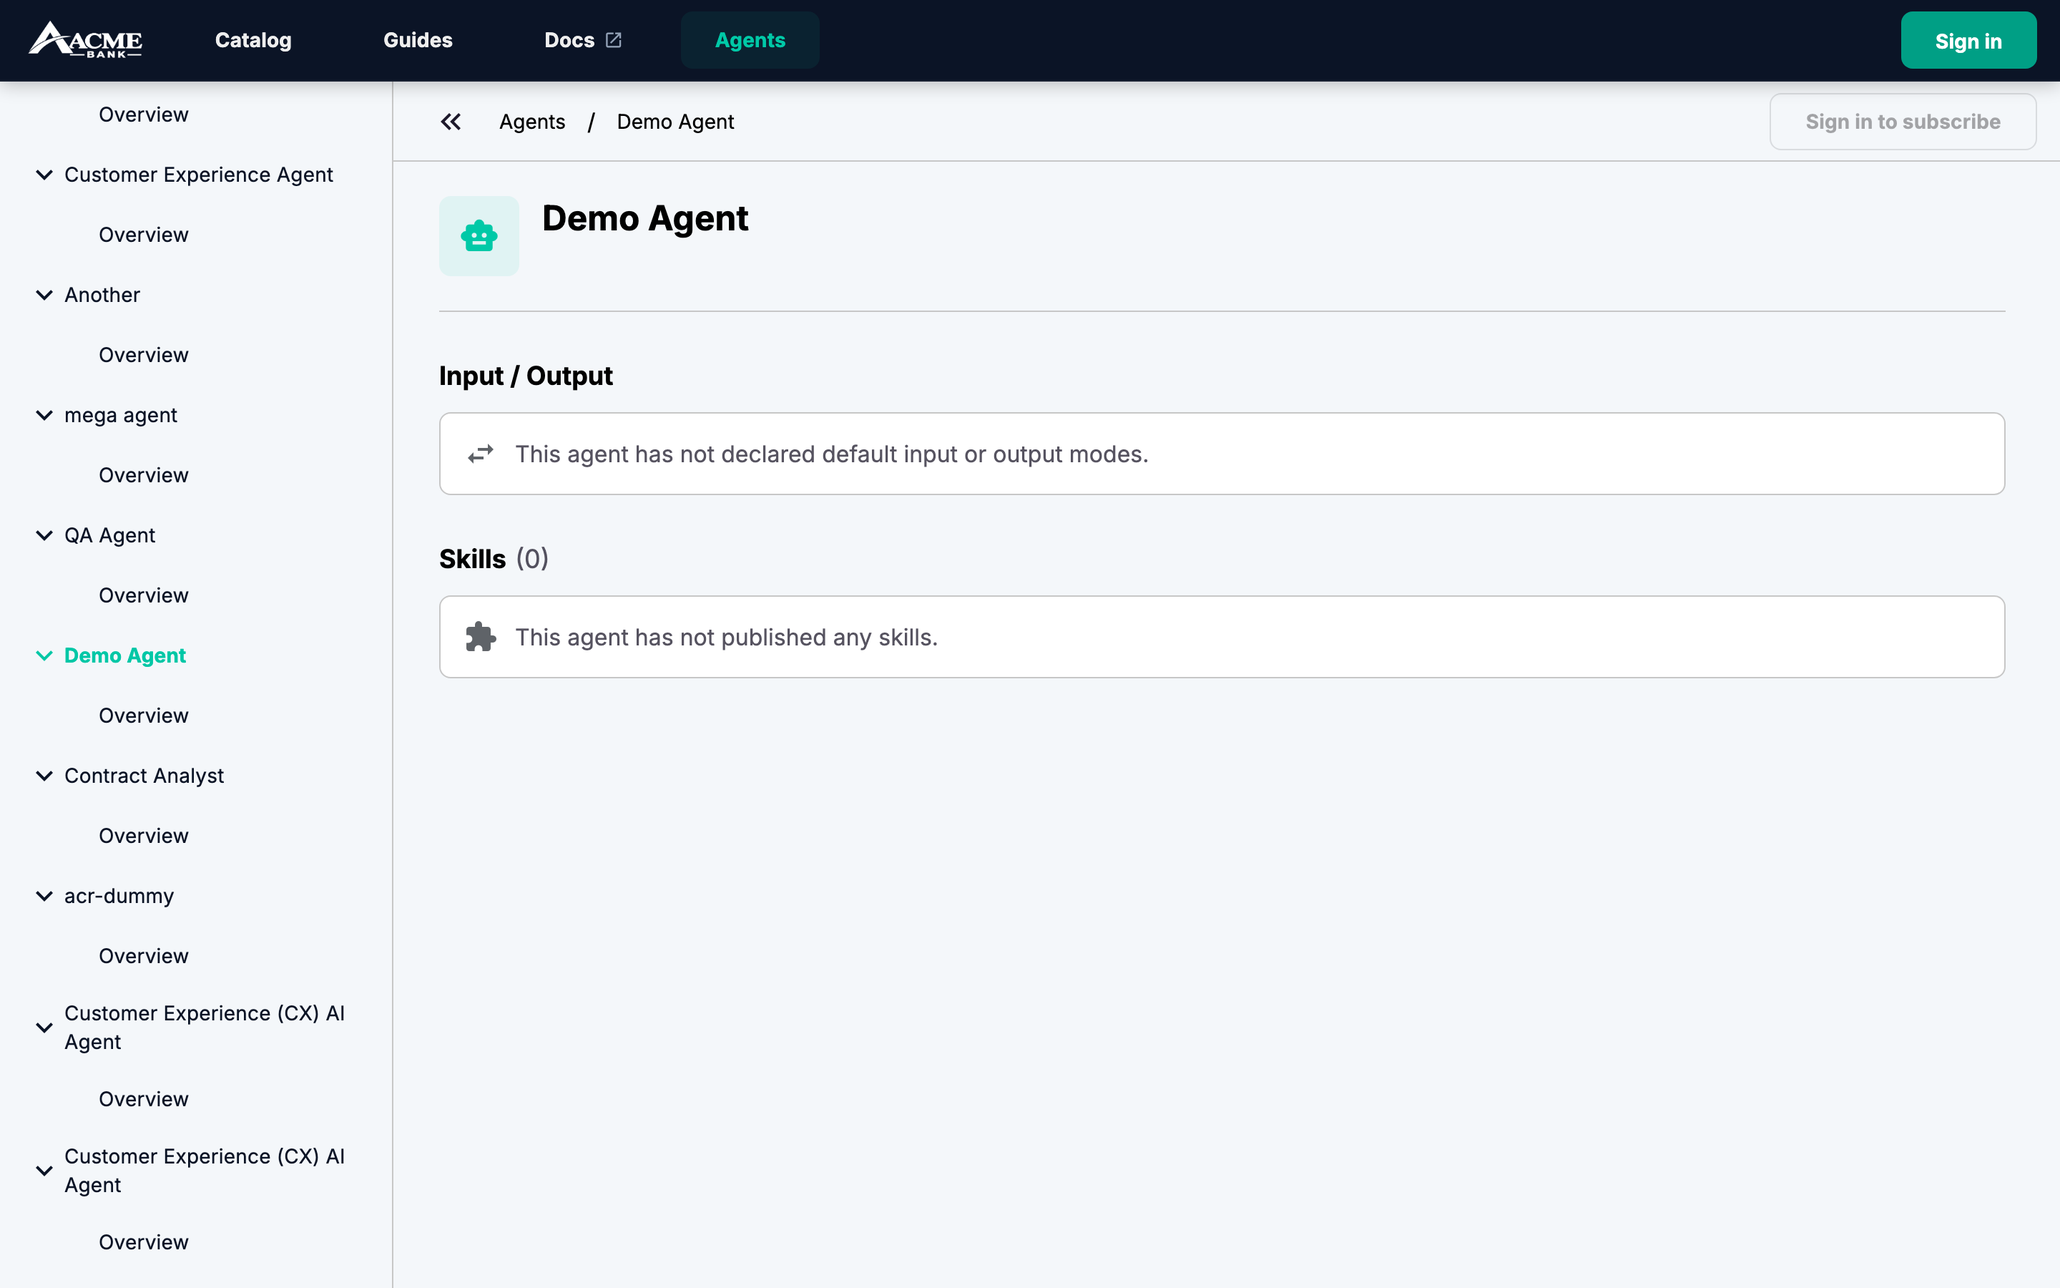
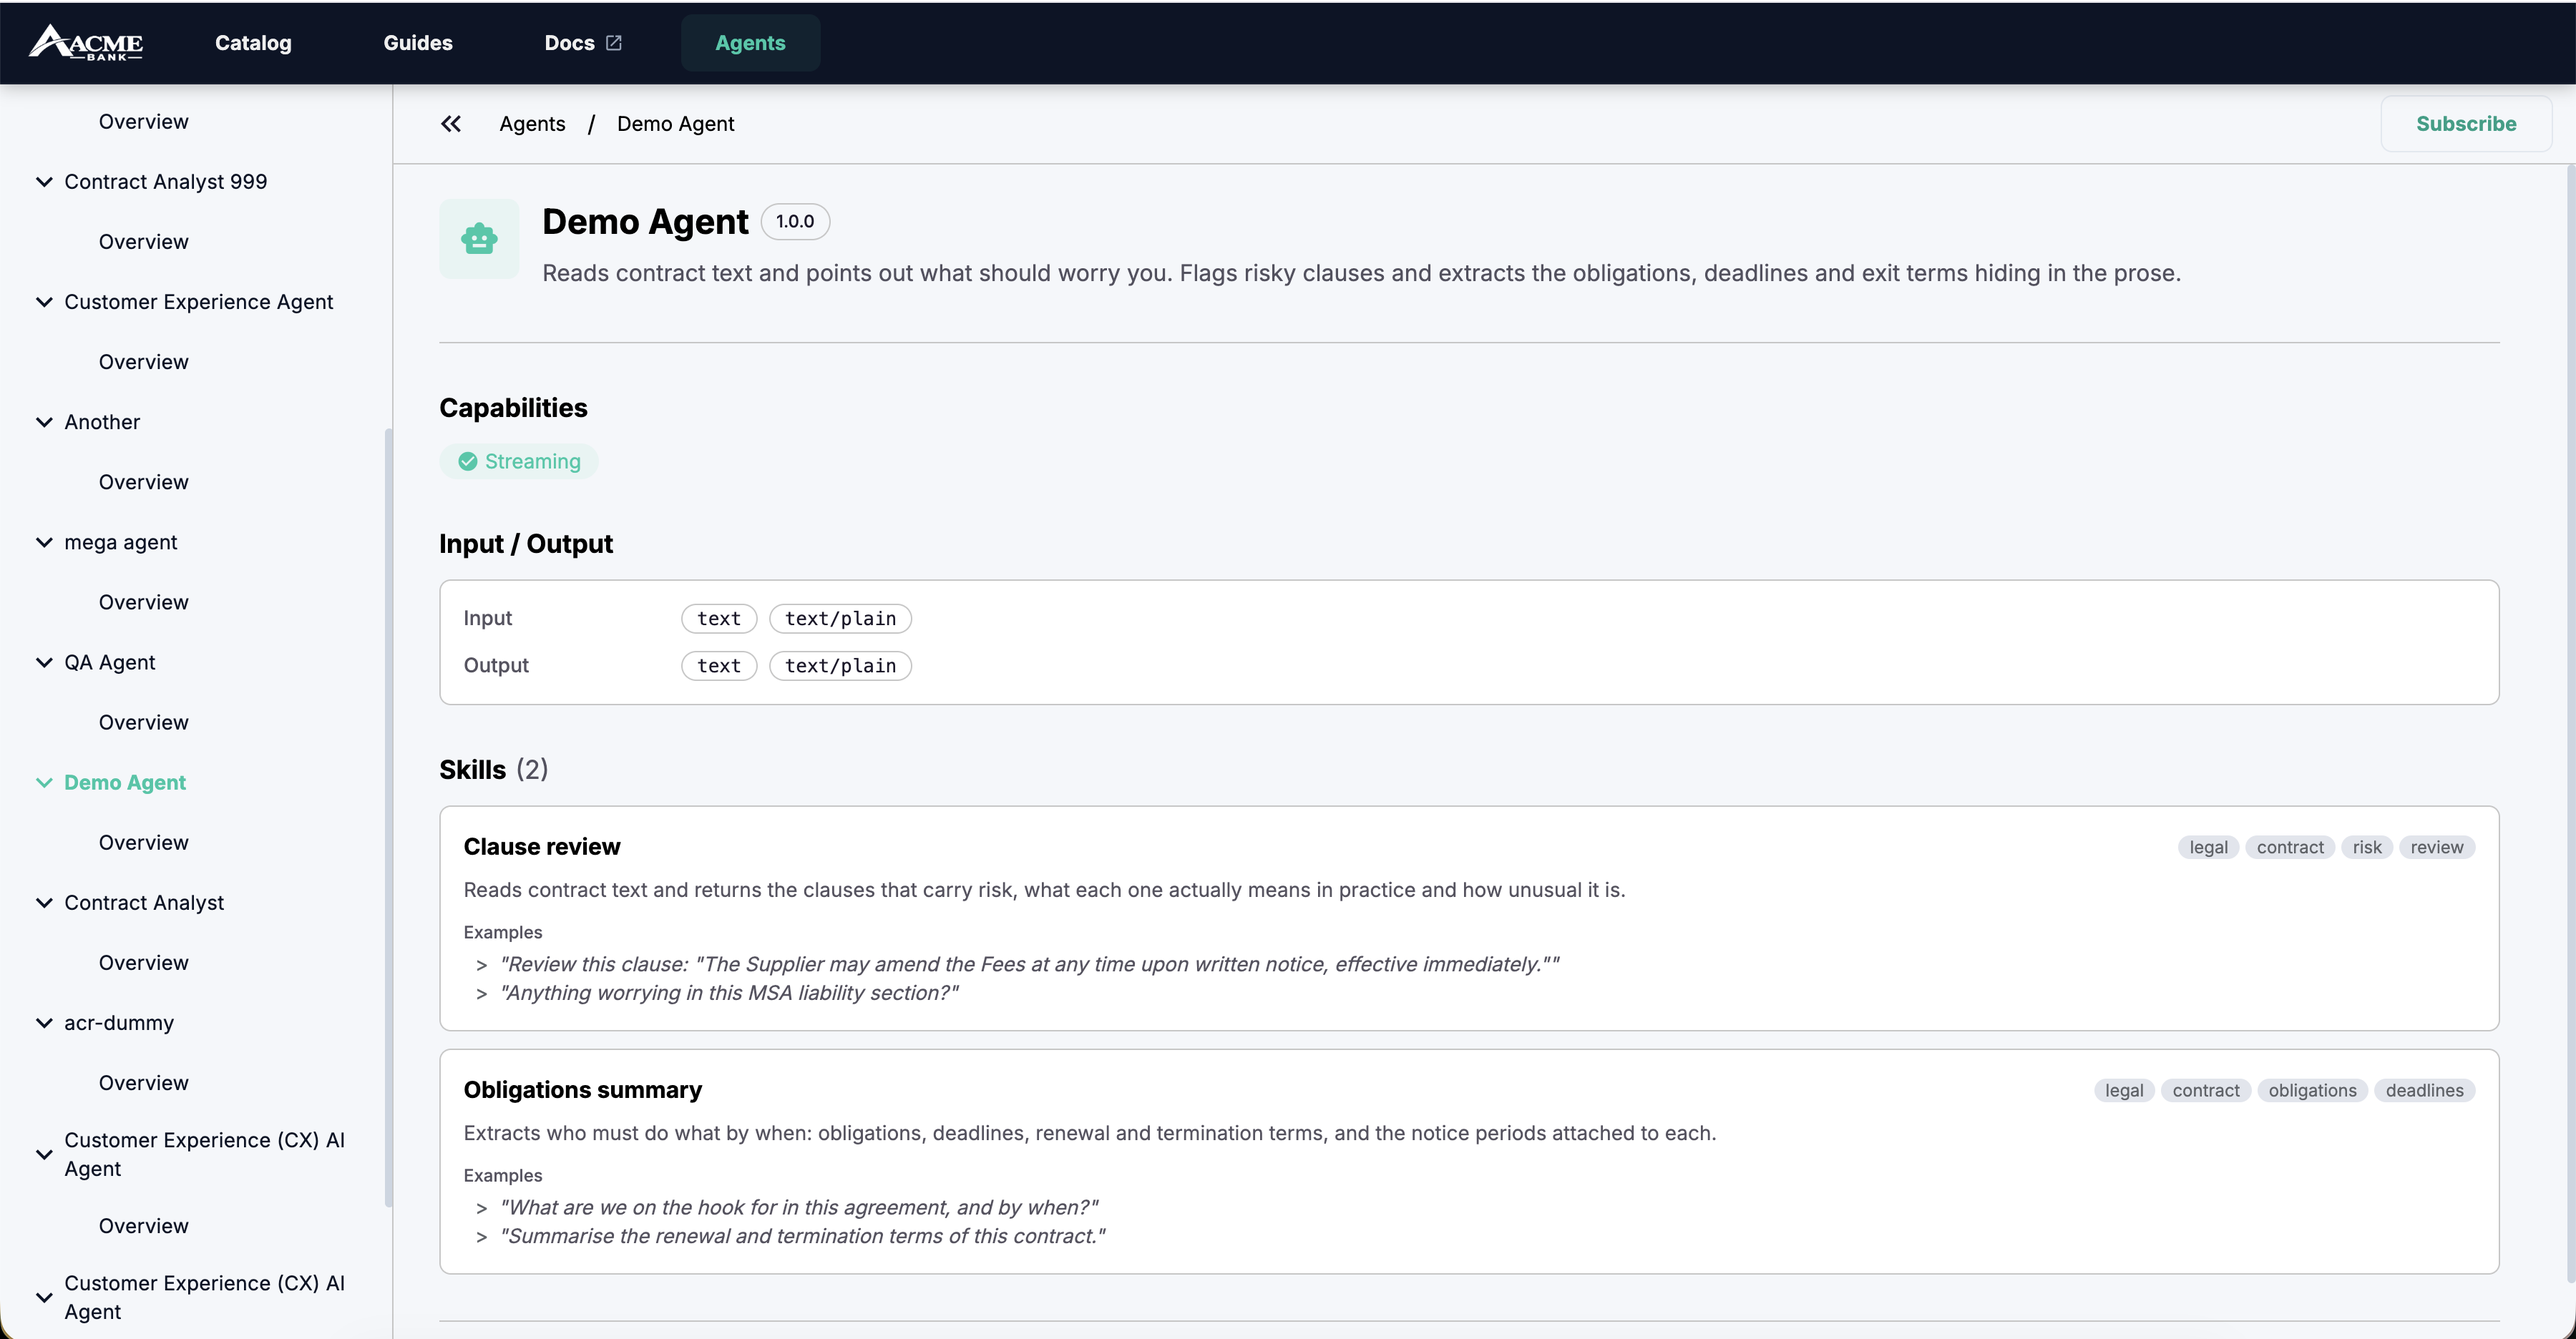
docs(gamma): show the Developer Portal agent listing as a signed-in consumer sees it (AIAM-429)
The previous capture was taken anonymously and the agent page rendered empty.
A reviewer supplied the signed-in view of the same agent, which shows the
Capabilities, Input / Output, and Skills sections and the Subscribe button, all
verified in the portal source at the demo branch; the avatar initials are
masked. Prose, alt text, and caption follow the signed-in view.

diff --git a/docs/gamma/4.12/agent-management/publish/publish-your-agent-to-the-developer-portal.md b/docs/gamma/4.12/agent-management/publish/publish-your-agent-to-the-developer-portal.md
@@ -83,11 +83,11 @@ Consumers find an agent in the following ways:
 
 * **Browse by category**. The **Category** dropdown filters the catalog to the items assigned to that category.
 * **Search**. The search bar matches the agent's name. When **Approximate spelling for API search** is turned on in the New Developer Portal settings, close misspellings match too.
-* **Open the listing**. Selecting the card opens the agent's documentation on its first published page. A **Subscribe** button starts a subscription to the A2A Proxy behind the agent. Consumers who aren't signed in see **Sign in to subscribe** instead.
+* **Open the listing**. Selecting the card opens the agent's documentation on its first published page. The agent's page shows its **Capabilities**, its **Input / Output** modes, and its **Skills** with their examples. A **Subscribe** button starts a subscription to the A2A Proxy behind the agent. Consumers who aren't signed in see **Sign in to subscribe** instead.
 
 A listing follows the visibility of its navigation item and of the folders above it. An unpublished item is hidden from everyone, and an item that requires authentication is hidden from consumers who aren't signed in.
 
-<figure><img src="../.gitbook/assets/gamma-portal-agent-listing.png" alt="An agent's listing in the Developer Portal: the Agents navigation on the left, the agent's page with its Input / Output and Skills sections, and the Sign in to subscribe button"><figcaption><p>An agent's listing in the Developer Portal, as a consumer who isn't signed in sees it</p></figcaption></figure>
+<figure><img src="../.gitbook/assets/gamma-portal-agent-listing.png" alt="An agent's listing in the Developer Portal: the Agents navigation on the left, the agent's page with its Capabilities, Input / Output, and Skills sections, and the Subscribe button"><figcaption><p>An agent's listing in the Developer Portal, as a signed-in consumer sees it</p></figcaption></figure>
 
 ## Next steps
 
